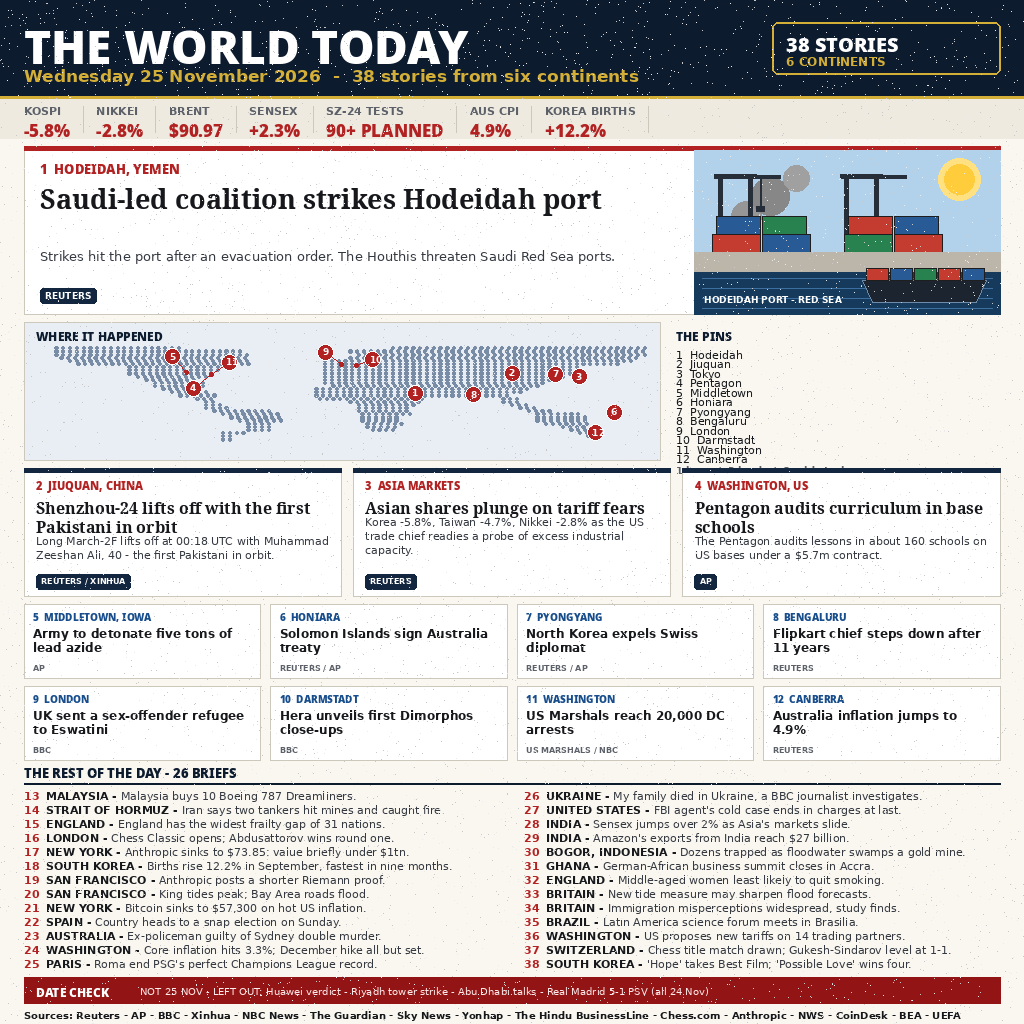
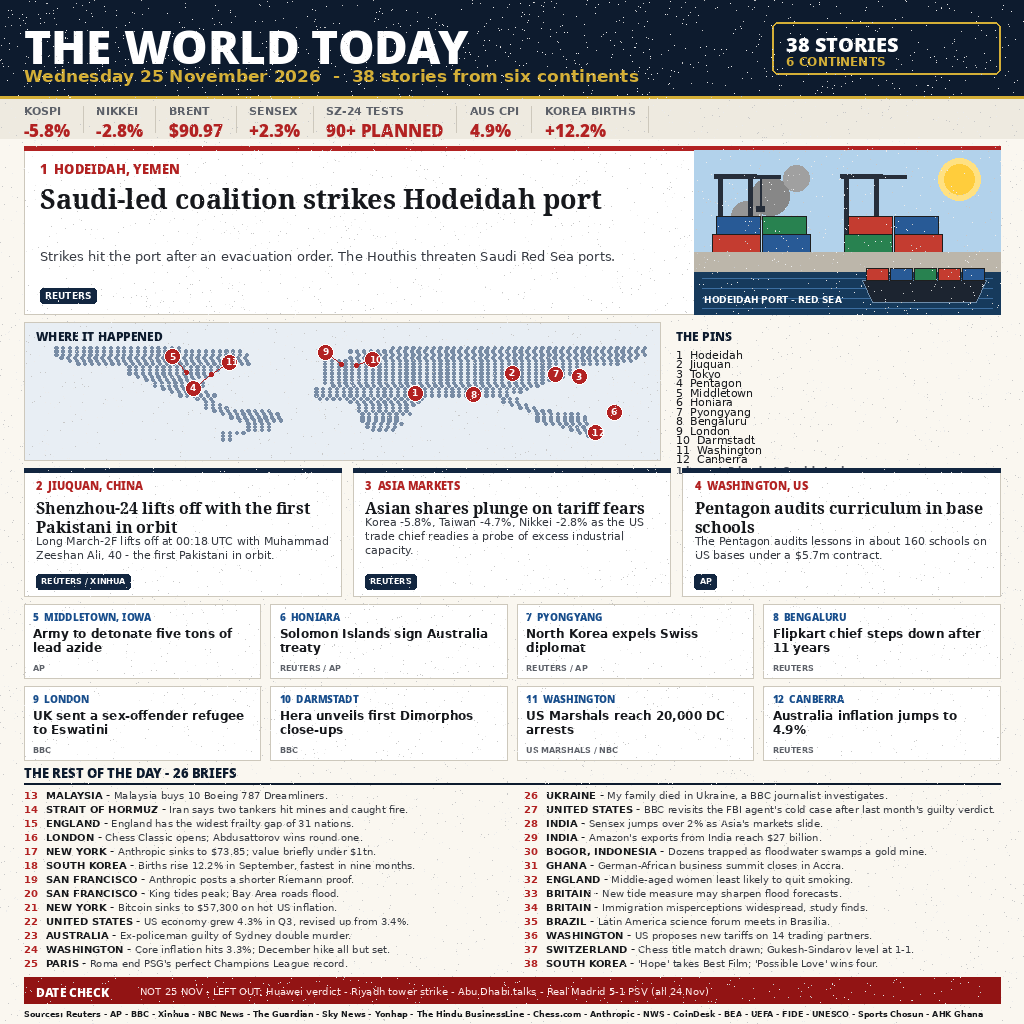
FIX round 2: brief #22 Spain snap election -> US Q3 GDP (BEA, 25 Nov); brief #27 FBI cold case reworded (guilty verdict last month); footer sources + FIDE/UNESCO/Sports Chosun/AHK Ghana

Changed region(s): [[0.0312, 0.75, 0.9375, 1.0]]

diff --git a/render.py b/render.py
@@ -90,12 +90,12 @@ BRIEFS = [
     ("SAN FRANCISCO", "Anthropic posts a shorter Riemann proof.", "ANTHROPIC"),
     ("SAN FRANCISCO", "King tides peak; Bay Area roads flood.", "NWS"),
     ("NEW YORK", "Bitcoin sinks to $57,300 on hot US inflation.", "COINDESK"),
-    ("SPAIN", "Country heads to a snap election on Sunday.", "BBC"),
+    ("UNITED STATES", "US economy grew 4.3% in Q3, revised up from 3.4%.", "BEA"),
     ("AUSTRALIA", "Ex-policeman guilty of Sydney double murder.", "BBC"),
     ("WASHINGTON", "Core inflation hits 3.3%; December hike all but set.", "BEA"),
     ("PARIS", "Roma end PSG's perfect Champions League record.", "UEFA"),
     ("UKRAINE", "My family died in Ukraine, a BBC journalist investigates.", "BBC"),
-    ("UNITED STATES", "FBI agent's cold case ends in charges at last.", "BBC"),
+    ("UNITED STATES", "BBC revisits the FBI agent's cold case after last month's guilty verdict.", "BBC"),
     ("INDIA", "Sensex jumps over 2% as Asia's markets slide.", "THE HINDU BUSINESSLINE"),
     ("INDIA", "Amazon's exports from India reach $27 billion.", "THE HINDU BUSINESSLINE"),
     ("BOGOR, INDONESIA", "Dozens trapped as floodwater swamps a gold mine.", "REUTERS"),
@@ -345,8 +345,8 @@ def main():
     by = 764
     d.text((24, by), "THE REST OF THE DAY - 26 BRIEFS", font=font(F_BLACK, 13), fill=NAVY)
     d.line([24, by + 19, W - 24, by + 19], fill=NAVY, width=2)
-    bf = font(F_REG, 11)
-    bfb = font(F_BOLD, 11)
+    bf = font(F_REG, 10)
+    bfb = font(F_BOLD, 10)
     colw = (W - 48 - 24) / 2
     for i, (place, text, src) in enumerate(BRIEFS):
         col, row = divmod(i, 13)
@@ -368,8 +368,8 @@ def main():
     fy = dy + 32
     d.text((24, fy), "Sources: Reuters - AP - BBC - Xinhua - NBC News - The Guardian - "
            "Sky News - Yonhap - The Hindu BusinessLine - Chess.com - Anthropic - "
-           "NWS - CoinDesk - BEA - UEFA",
-           font=font(F_BOLD, 10), fill=INK)
+           "NWS - CoinDesk - BEA - UEFA - FIDE - UNESCO - Sports Chosun - AHK Ghana",
+           font=font(F_BOLD, 8), fill=INK)
 
     # ---- deterministic grain for texture ----
     for _ in range(9000):
